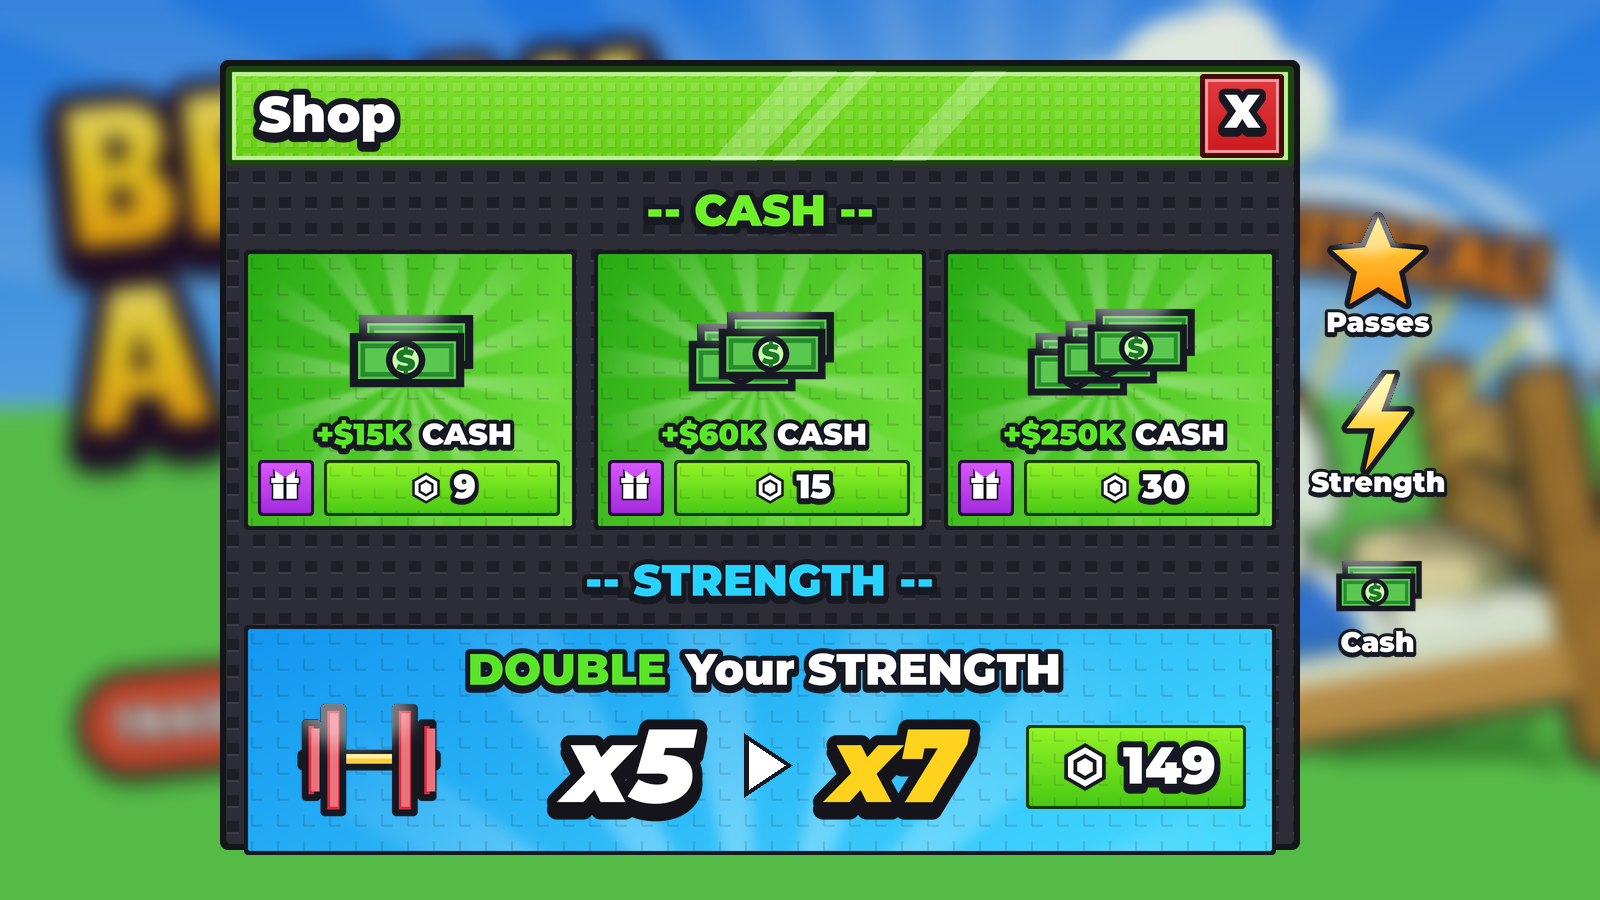
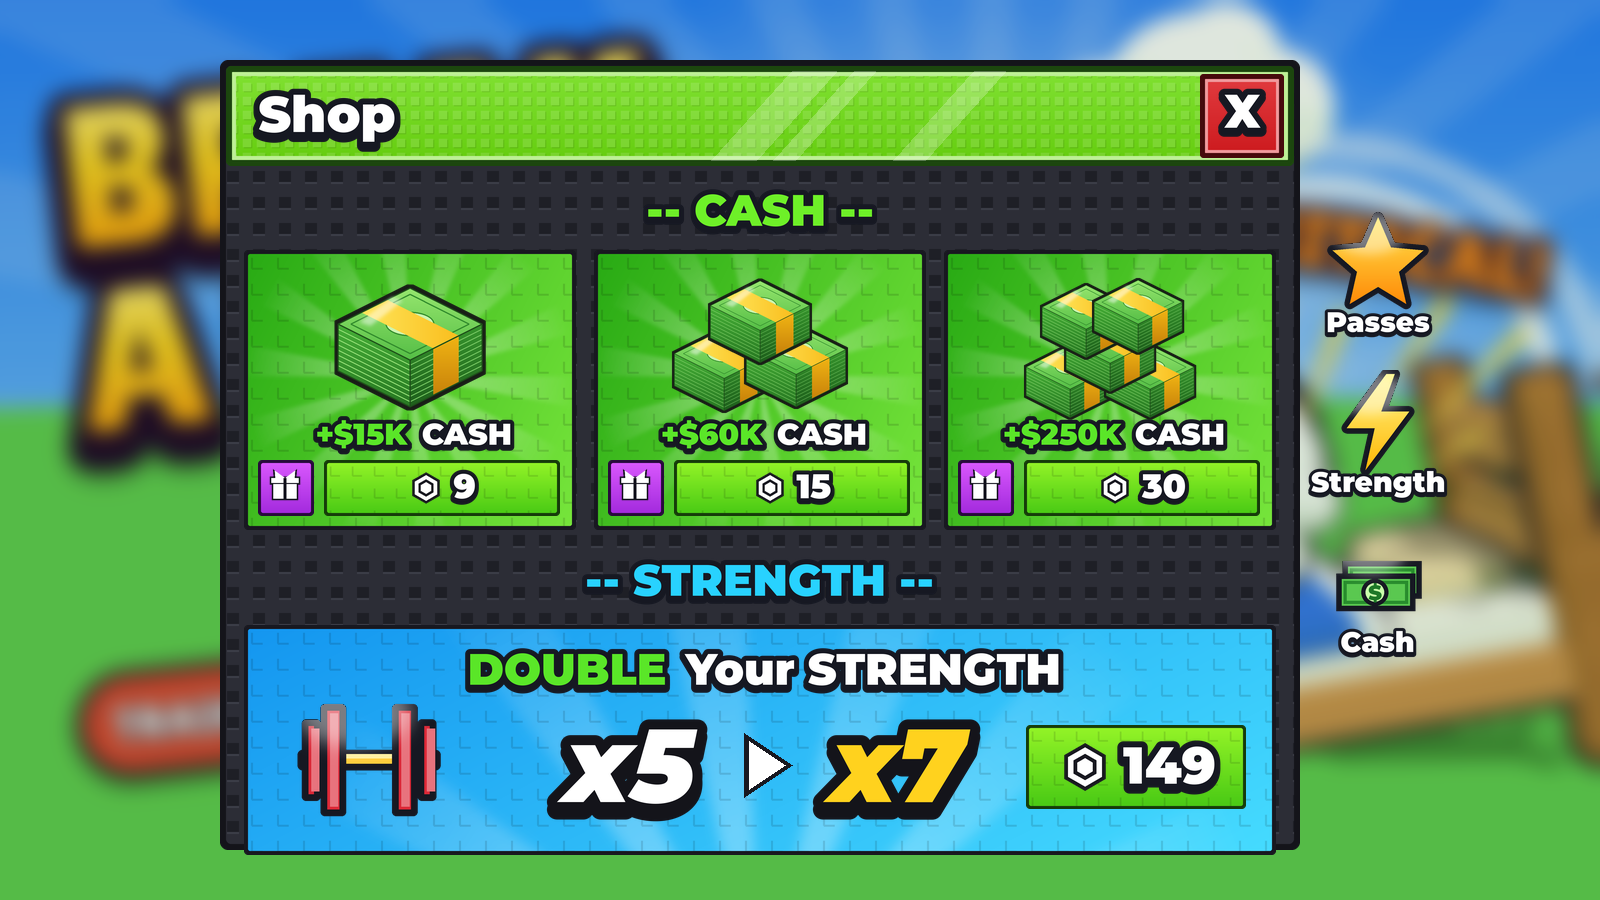
Break A Bed: higher quality 2D cash art
Claude-Session: https://claude.ai/code/session_016uvrS3Ui1ijFbyufuEdzSK

Changed region(s): [[0.625, 0.3111, 0.75, 0.4667], [0.4062, 0.3111, 0.5312, 0.4667], [0.1875, 0.3111, 0.3125, 0.4667]]

diff --git a/Break A Bed/UI Kit/source/art.py b/Break A Bed/UI Kit/source/art.py
@@ -1,0 +1,104 @@
+"""Higher-quality 2D item art: shaded faces, thick dark silhouette outline, shine."""
+import sys, math
+from PIL import Image, ImageDraw, ImageFilter, ImageChops, ImageFont
+from kit import FONT, mix
+
+S = 4
+OL = (24, 30, 22)
+
+def outline(im, px):
+    a = im.getchannel('A').point(lambda v: 255 if v > 40 else 0)
+    big = a.filter(ImageFilter.MaxFilter(px * 2 + 1))
+    o = Image.new('RGBA', im.size, OL + (0,)); o.putalpha(big)
+    o.alpha_composite(im)
+    return o
+
+def grad_poly(d_img, pts, c1, c2, axis='y'):
+    W, H = d_img.size
+    m = Image.new('L', (W, H), 0); ImageDraw.Draw(m).polygon(pts, fill=255)
+    xs = [p[0] for p in pts]; ys = [p[1] for p in pts]
+    g = Image.new('RGB', (W, H)); gd = ImageDraw.Draw(g)
+    lo, hi = (min(ys), max(ys)) if axis == 'y' else (min(xs), max(xs))
+    for v in range(int(lo), int(hi) + 1):
+        t = (v - lo) / max(1, hi - lo); c = mix(c1, c2, t)
+        if axis == 'y': gd.line((0, v, W, v), fill=c)
+        else: gd.line((v, 0, v, H), fill=c)
+    d_img.paste(g, (0, 0), m)
+
+def stack(cx, cy, w, h, depth, layers=1):
+    """one bundle of bills in 2:1 isometric; returns list of draw ops on a canvas"""
+    pass
+
+def cash_bundle(n=512, tilt=0):
+    W = n * S
+    im = Image.new('RGBA', (W, W), (0, 0, 0, 0))
+    d = ImageDraw.Draw(im)
+    # isometric box: top diamond, left face, right face
+    cx, cy = W * 0.5, W * 0.40
+    a, b = W * 0.40, W * 0.20      # half-width / half-height of top diamond
+    t = W * 0.26                   # thickness
+    top = [(cx - a, cy), (cx, cy - b), (cx + a, cy), (cx, cy + b)]
+    left = [(cx - a, cy), (cx, cy + b), (cx, cy + b + t), (cx - a, cy + t)]
+    right = [(cx, cy + b), (cx + a, cy), (cx + a, cy + t), (cx, cy + b + t)]
+    grad_poly(im, left, (70, 175, 55), (40, 120, 35))
+    grad_poly(im, right, (55, 150, 45), (30, 95, 28))
+    # bill edges on the side faces
+    for i in range(1, 9):
+        f = i / 9
+        y1 = cy + t * f
+        d.line([(cx - a, y1), (cx, cy + b + t * f)], fill=(150, 225, 120), width=int(W * 0.006))
+        d.line([(cx, cy + b + t * f), (cx + a, y1)], fill=(120, 200, 100), width=int(W * 0.006))
+    grad_poly(im, top, (150, 230, 110), (85, 190, 70))
+    # inner border on top bill
+    k = 0.82
+    inner = [(cx + (x - cx) * k, cy + (y - cy) * k) for x, y in top]
+    d.line(inner + [inner[0]], fill=(50, 140, 45), width=int(W * 0.008))
+    # $ circle on top (squashed to the iso plane)
+    r = W * 0.085
+    d.ellipse((cx - r * 1.6, cy - r * 0.8, cx + r * 1.6, cy + r * 0.8), fill=(205, 245, 175), outline=(50, 140, 45), width=int(W * 0.008))
+    f = ImageFont.truetype(FONT, int(W * 0.11))
+    tmp = Image.new('L', (W, W), 0); ImageDraw.Draw(tmp).text((cx, cy), '$', font=f, anchor='mm', fill=255)
+    tmp = tmp.resize((W, W)).transform((W, W), Image.AFFINE, (1, 0, 0, 0, 2, -cy), Image.BICUBIC)
+    sq = Image.new('L', (W, W), 0); sq.paste(tmp.crop((0, 0, W, W)), (0, 0))
+    im.paste((45, 130, 40, 255), (0, 0), sq.point(lambda v: v))
+    # yellow paper band across the bundle (top + both sides)
+    bw = W * 0.07
+    def band_pts(u):  # u along the left->right diagonal of the top
+        return u
+    p1 = (cx - a * 0.5 - bw, cy - b * 0.5 + bw * 0.5); p2 = (cx + a * 0.5 - bw, cy + b * 0.5 + bw * 0.5)
+    bt = [(cx - a * 0.5 - bw, cy - b * 0.5 - bw * 0.5 + bw), (cx - a * 0.5 + bw, cy - b * 0.5 - bw * 0.5),
+          (cx + a * 0.5 + bw, cy + b * 0.5 - bw * 0.5), (cx + a * 0.5 - bw, cy + b * 0.5 + bw * 0.5)]
+    grad_poly(im, bt, (255, 230, 90), (250, 190, 30), axis='x')
+    bs = [(cx + a * 0.5 - bw, cy + b * 0.5 + bw * 0.5), (cx + a * 0.5 + bw, cy + b * 0.5 - bw * 0.5),
+          (cx + a * 0.5 + bw, cy + b * 0.5 - bw * 0.5 + t), (cx + a * 0.5 - bw, cy + b * 0.5 + bw * 0.5 + t)]
+    grad_poly(im, bs, (240, 180, 20), (200, 130, 10))
+    bl = [(cx - a * 0.5 - bw, cy - b * 0.5 + bw * 0.5), (cx - a * 0.5 + bw, cy - b * 0.5 - bw * 0.5 + 0),
+          (cx - a * 0.5 + bw, cy - b * 0.5 - bw * 0.5 + t), (cx - a * 0.5 - bw, cy - b * 0.5 + bw * 0.5 + t)]
+    # (left band part is hidden behind the top, skip)
+    # edges
+    for poly in (top, left, right):
+        d.line(poly + [poly[0]], fill=(30, 80, 25), width=int(W * 0.007))
+    # shine
+    sh = Image.new('L', (W, W), 0)
+    ImageDraw.Draw(sh).polygon([(cx - a * 0.7, cy - b * 0.05), (cx - a * 0.25, cy - b * 0.75), (cx - a * 0.1, cy - b * 0.65), (cx - a * 0.55, cy + b * 0.05)], fill=120)
+    sh = sh.filter(ImageFilter.GaussianBlur(W * 0.01))
+    im.alpha_composite(Image.merge('RGBA', [Image.new('L', (W, W), 255)] * 3 + [sh]))
+    im = outline(im, int(W * 0.018))
+    return im.resize((n, n), Image.LANCZOS)
+
+def cash_pile(n=512, count=3):
+    W = n
+    out = Image.new('RGBA', (W, W), (0, 0, 0, 0))
+    spots = {1: [(0, 0, 0.9)], 2: [(-0.12, 0.08, 0.7), (0.14, -0.06, 0.7)],
+             3: [(-0.18, 0.12, 0.62), (0.18, 0.1, 0.62), (0.0, -0.12, 0.62)],
+             5: [(-0.2, 0.18, 0.55), (0.2, 0.18, 0.55), (0, 0.05, 0.55), (-0.12, -0.12, 0.55), (0.14, -0.14, 0.55)]}[count]
+    for dx, dy, sc in spots:
+        b = cash_bundle(int(n * sc))
+        out.alpha_composite(b, (int(W / 2 - b.width / 2 + dx * W), int(W / 2 - b.height / 2 + dy * W)))
+    return out
+
+if __name__ == '__main__':
+    sheet = Image.new('RGBA', (1560, 520), (60, 180, 60, 255))
+    for i, c in enumerate((1, 3, 5)):
+        sheet.alpha_composite(cash_pile(512, c), (i * 520, 0))
+    sheet.convert('RGB').save('art_test.png')

diff --git a/Break A Bed/UI Kit/source/shop3.py b/Break A Bed/UI Kit/source/shop3.py
@@ -96,7 +96,7 @@ def giftbtn(s):
 
 def item(w, h, a, b, ic, amt, word, cost, amt_col=(110, 240, 40)):
     c = card(w, h, a, b)
-    c.alpha_composite(ic, ((w - ic.width) // 2, 6))
+    c.alpha_composite(ic, ((w - ic.width) // 2, -8))
     sim.wtext(c, (w / 2, h - 96), amt + ' ' + word, 30, anchor='mm', hl=amt) if amt_col == (110, 240, 40) else None
     gs = 56
     c.alpha_composite(giftbtn(gs), (14, h - gs - 14))
@@ -117,10 +117,8 @@ def main(bgpath, out):
     cw, ch, gap = (ww - 48 - 2 * 18) // 3, 280, 18
     packs = [('+$15K', '9', 1), ('+$60K', '15', 2), ('+$250K', '30', 3), ('+$1M', '49', 4)]
     for i, (amt, cost, n) in enumerate(packs[:3]):
-        ic = Image.new('RGBA', (220, 170), (0, 0, 0, 0))
-        for k in range(n):
-            ci = gloss(icon('cash', 150 - 10 * (n - 1)))
-            ic.alpha_composite(ci, (int(110 - ci.width / 2 + (k - (n - 1) / 2) * 30), int(14 + (n - 1 - k) * 0 - k * 12 + (n - 1) * 12)))
+        import art
+        ic = art.cash_pile(200, {1: 1, 2: 3, 3: 5}[n])
         c = item(cw, ch, (40, 170, 20), (120, 230, 60), ic, amt, 'CASH', cost)
         img.alpha_composite(c, (x0 + 24 + i * (cw + gap), y0 + 190))
     sim.wtext(img, (x0 + ww / 2, y0 + 520), '-- STRENGTH --', 44, fill=(40, 210, 255), anchor='mm')

diff --git a/Break A Bed/UI Kit/UI Kit.md b/Break A Bed/UI Kit/UI Kit.md
@@ -49,9 +49,9 @@ The owner sent screenshots of a popular simulator (Shop/Index buttons, a dark st
 - **Cards** (`card-green.png`, `card-cyan2.png`, `card-yellow2.png`): a thin near-black outline `#181820` (4 px), a diagonal gradient (darker top-left → lighter bottom-right), the L pattern and a soft sunburst. There's **no 3D bottom edge** on cards.
 - **Price button** (`price-lime.png`): a bright lime gradient `#96F528 → #46C814` with a dark green outline, a **white Robux icon** with a dark outline (`icon-robux-white.png`) and big white numbers. The gift button is a purple gradient square (`gift-purple.png`) with the white gift glyph.
 - Card text: "**+$15K** CASH" with the amount in green, a big heavy font, a dark stroke.
-- **The biggest difference is the item art.** The other game uses real 3D-rendered pictures (shoe piles, cash stacks, chests). Flat drawn icons will never look that good. Use real 3D instead:
-  1. **ViewportFrames** showing 3D models (free cash stacks, money bags, chests, dumbbells and beds from the Creator Store, or the game's own beds), slowly turning. This is how top simulators show pets and items.
-  2. Or ready-made **3D icon images** from the Creator Store (search "simulator icons", "cash icon 3D") or bought icon packs.
+- **The biggest difference is the item art.** The other game uses really well-drawn **2D pictures** (not 3D models): thick dark outlines, shaded sides, shine and depth. Ours should match that quality.
+  - Started: `art-cash-small.png`, `art-cash-medium.png`, `art-cash-big.png` (shaded isometric cash bundles with a yellow band, shine and a thick outline). Use these for the Cash packs.
+  - Still to make at this quality: Strength (dumbbells), boosts, spins, gifts and beds.
 
 ### Effects (the owner: "the effects in this game are crazy")
 - **Server announcements:** a big line at the top center for everyone, white with a dark stroke and the important part colored: "**Rong** broke the **INFINITY BED!**", "**Rong** bought **SERVER x2 STRENGTH!**". It slides in, stays 4 s and fades.
